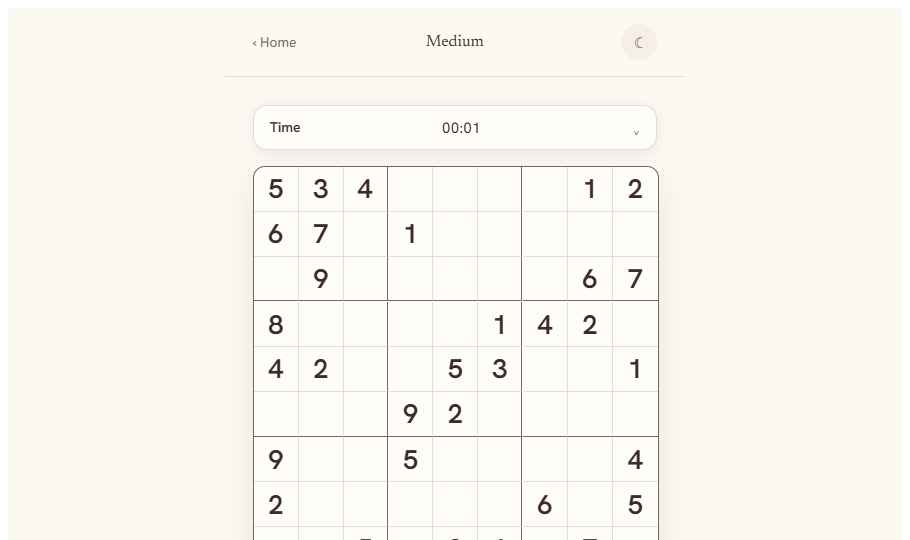
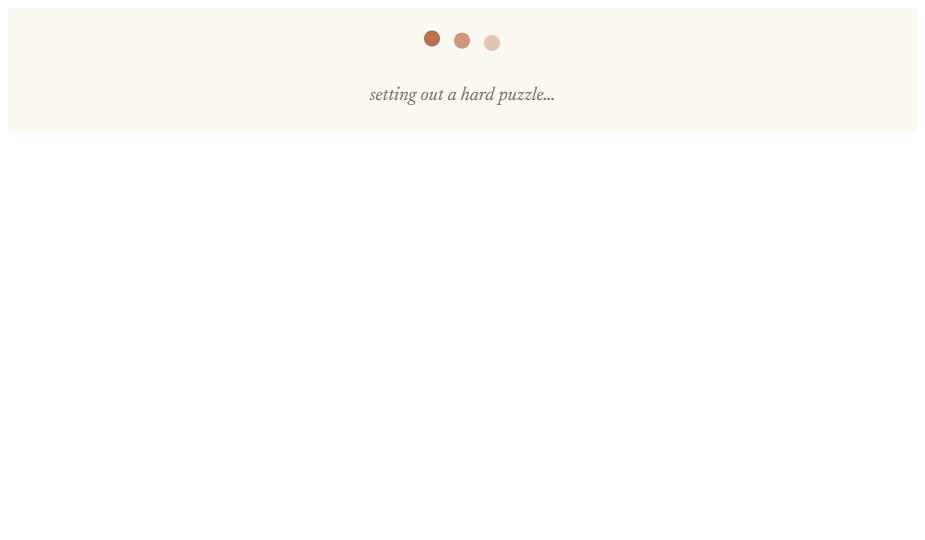
Replace New Game loader with breathing dots
Swap the nine numbered loader tiles on the New Game / Loading screen for
three breathing dots per the updated redesign spec, and fix a CSS Modules
scoping bug that stopped the loader animation from running.

- NewGamePage: render three dots above the caption (role="status")
- Move sd-load/sd-fadeup keyframes into the module: CSS Modules hashes
  animation-name references, so global keyframes in index.css never
  resolved and the animation silently never ran
- Update the loader test to assert three dots instead of digits 1-9
- Update redesign README + loading screenshot to match

diff --git a/src/frontend/Sudoku.React/src/pages/NewGamePage.module.css b/src/frontend/Sudoku.React/src/pages/NewGamePage.module.css
@@ -1,3 +1,17 @@
+/* Keyframes are defined locally: CSS Modules scopes both the @keyframes name and
+   the animation reference to the same hash, so the animation actually resolves.
+   A reference to a keyframe defined globally (e.g. in index.css) gets rewritten to
+   a scoped name that has no matching @keyframes, so it silently never runs. */
+@keyframes sd-fadeup {
+  from { opacity: 0; transform: translateY(10px); }
+  to   { opacity: 1; transform: translateY(0); }
+}
+
+@keyframes sd-load {
+  0%, 100% { opacity: 0.25; transform: translateY(0); }
+  50%      { opacity: 1; transform: translateY(-6px); }
+}
+
 .loadingContainer {
   display: flex;
   flex-direction: column;
@@ -5,7 +19,8 @@
   justify-content: center;
   min-height: 70vh;
   text-align: center;
-  gap: 24px;
+  gap: 34px;
+  animation: sd-fadeup 0.4s ease both;
 }
 
 .message {
@@ -16,32 +31,20 @@
   margin: 0;
 }
 
-.sudokuLoader {
+.dots {
   display: flex;
   justify-content: center;
-  gap: 8px;
+  gap: 14px;
 }
 
-.tile {
-  display: flex;
-  align-items: center;
-  justify-content: center;
-  width: 26px;
-  height: 32px;
-  border-radius: 6px;
-  background-color: var(--surface-2);
-  color: var(--accent);
-  font-size: 15px;
-  font-weight: 600;
-  animation: sd-load 1.1s ease-in-out infinite;
+.dot {
+  width: 16px;
+  height: 16px;
+  border-radius: 50%;
+  background: var(--accent);
+  animation: sd-load 1.2s ease-in-out infinite;
 }
 
-.tile:nth-child(1) { animation-delay: 0s; }
-.tile:nth-child(2) { animation-delay: 0.09s; }
-.tile:nth-child(3) { animation-delay: 0.18s; }
-.tile:nth-child(4) { animation-delay: 0.27s; }
-.tile:nth-child(5) { animation-delay: 0.36s; }
-.tile:nth-child(6) { animation-delay: 0.45s; }
-.tile:nth-child(7) { animation-delay: 0.54s; }
-.tile:nth-child(8) { animation-delay: 0.63s; }
-.tile:nth-child(9) { animation-delay: 0.72s; }
+.dot:nth-child(1) { animation-delay: 0s; }
+.dot:nth-child(2) { animation-delay: 0.16s; }
+.dot:nth-child(3) { animation-delay: 0.32s; }

diff --git a/src/frontend/Sudoku.React/src/pages/NewGamePage.tsx b/src/frontend/Sudoku.React/src/pages/NewGamePage.tsx
@@ -34,12 +34,12 @@ export default function NewGamePage() {
   return (
     <Layout hideHeader>
       <div className={styles.loadingContainer}>
-        <p className={styles.message}>setting out a {difficulty?.toLowerCase()} puzzle…</p>
-        <div className={styles.sudokuLoader}>
-          {[1, 2, 3, 4, 5, 6, 7, 8, 9].map(n => (
-            <span key={n} className={styles.tile}>{n}</span>
+        <div className={styles.dots} role="status" aria-label="Loading puzzle">
+          {[0, 1, 2].map(n => (
+            <span key={n} className={styles.dot} data-testid="loader-dot" />
           ))}
         </div>
+        <p className={styles.message}>setting out a {difficulty?.toLowerCase()} puzzle…</p>
       </div>
     </Layout>
   );

diff --git a/src/frontend/Sudoku.React/src/pages/NewGamePage.test.tsx b/src/frontend/Sudoku.React/src/pages/NewGamePage.test.tsx
@@ -109,10 +109,8 @@ describe('NewGamePage', () => {
     });
   });
 
-  it('shows the numeric loader with digits 1-9', () => {
+  it('shows the three breathing dots loader', () => {
     renderNewGamePage('Hard');
-    for (let n = 1; n <= 9; n++) {
-      expect(screen.getByText(n.toString())).toBeInTheDocument();
-    }
+    expect(screen.getAllByTestId('loader-dot')).toHaveLength(3);
   });
 });

diff --git a/src/frontend/Sudoku.React/src/index.css b/src/frontend/Sudoku.React/src/index.css
@@ -96,7 +96,7 @@ a,
 
 @keyframes sd-load {
   0%, 100% { opacity: 0.25; transform: translateY(0); }
-  50%      { opacity: 1; transform: translateY(-5px); }
+  50%      { opacity: 1; transform: translateY(-6px); }
 }
 
 @keyframes sd-modal {

diff --git a/docs/Sudoku app redesign/README.md b/docs/Sudoku app redesign/README.md
@@ -137,7 +137,7 @@ Type scale (px unless noted):
 - Keyframes:
   - `sd-fadeup` — `opacity 0→1, translateY(10px)→0`, ~.4–.5s ease (screen enters).
   - `sd-pop` — `scale .6→1.14→1`, .2s ease (digit lands in a cell).
-  - `sd-load` — `opacity .25↔1, translateY 0↔-5px`, 1.1s ease-in-out infinite, staggered .09s per tile.
+  - `sd-load` — `opacity .25↔1, translateY 0↔-6px`, 1.2s ease-in-out infinite, staggered .16s per dot (loading dots breathe).
   - `sd-modal` — `opacity 0→1, translateY(14px)+scale(.97)→none`, .5s (victory).
 
 ### Icons
@@ -194,9 +194,15 @@ Order below maps to your routes/pages. App is a single centered ≤460px column 
   in `--accent`. Click → `/new/{difficulty}` (unchanged).
 
 ### 4. Loading / New Game → `pages/NewGamePage.tsx` + `.module.css`
-- Centered; italic "setting out a {difficulty} puzzle…" 19 `--ink-soft`.
-- Row of nine 26×32 tiles (radius 6, bg `--surface-2`, digit `--accent` 600/15) animating
-  `sd-load` staggered .09s. Replaces the old plain 1–9 loader. Keep your create→redirect logic.
+- Centered column, `gap:34px`, `sd-fadeup` in. **Breathing dots** above the caption:
+  three 16×16 circles (`border-radius:50%`, bg `--accent`), laid out in a flex row `gap:14`,
+  each animating `sd-load` (rise 6px + fade) on a 1.2s loop, staggered by .16s (dots 0/1/2 →
+  delays 0s/.16s/.32s) so they ripple. Below: italic "setting out a {difficulty} puzzle…"
+  19 `--ink-soft`. Keep your create→redirect logic; the loader is purely decorative while the
+  puzzle generates.
+- (We explored four loaders — grid-fills-in, progress-ring, breathing-dots, scanning-board — and
+  chose **breathing dots** as the calmest fit. The others live in `Loading Options.dc.html` if you
+  ever want to revisit.)
 
 ### 5. Game → `pages/GamePage.tsx` (+ `GameBoard`, `CellInput`, `GameControls`, `GameStats`)
 - **Stats card** (`GameStats`): radius 14, bg `--surface`, `1px solid var(--line)`, padding 12×16.
@@ -275,8 +281,8 @@ Order below maps to your routes/pages. App is a single centered ≤460px column 
   change (prototype keeps a 50-deep local stack; your `undoMove` service can back this).
 - **Theme toggle (new):** flips `light`/`dark` with the `.35s` color cross-fade; persist choice
   (e.g. `localStorage 'sudoku-theme'`) and read on load.
-- **Motion:** screens enter with `sd-fadeup`; cards lift `translateY(-2px)` on hover; loading tiles
-  breathe; victory uses `sd-modal`. All quick and subtle.
+- **Motion:** screens enter with `sd-fadeup`; cards lift `translateY(-2px)` on hover; the loading
+  dots breathe (`sd-load`, staggered); victory uses `sd-modal`. All quick and subtle.
 
 ## State Management
 Reuse `useGameService` / `usePlayerService` / `apiClient` as-is. Redesign adds only: